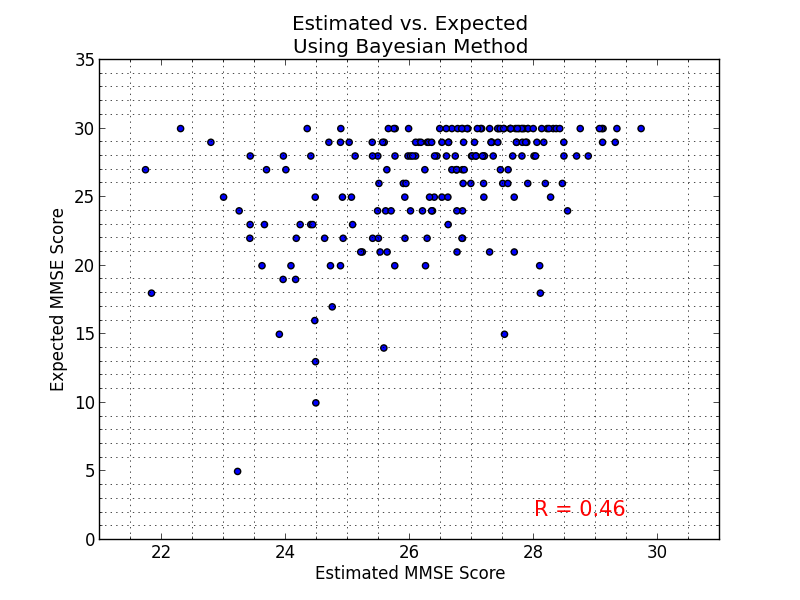
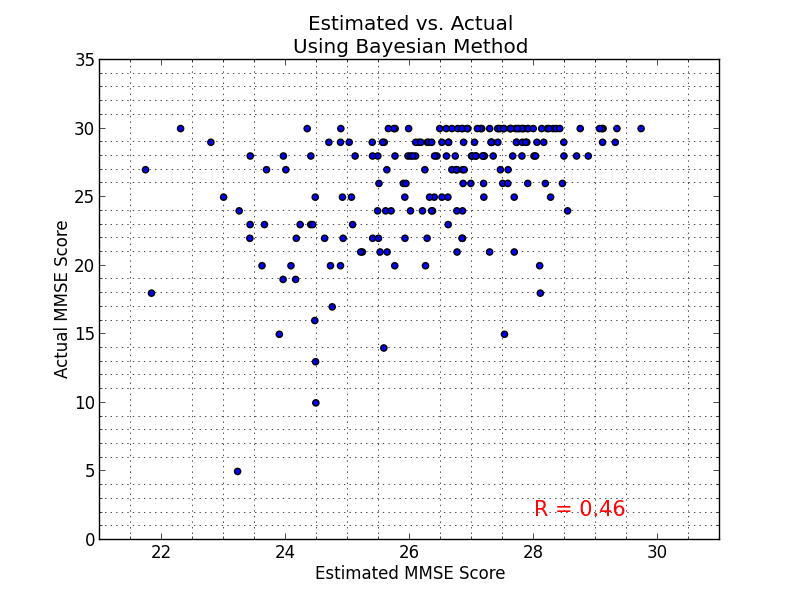
Fixed up graphs a bit

Changed region(s): [[0.0625, 0.33, 0.0938, 0.66], [0.375, 0.03, 0.6562, 0.06]]

diff --git a/analysis.py b/analysis.py
@@ -43,17 +43,17 @@ def analyze(run_data):
 	ax.xaxis.grid()
 	plt.xticks([round(x, 1) for x in bins[0:len(bins)]], [str(0.5*x) for x in range(-num_bins, num_bins)])
 	plt.axvline(x=0.0, color='r')
-	plt.xlabel('Difference Between Estimation and Expected\n(Bin Size RMSE)')
+	plt.xlabel('Difference Between Estimation and Actual\n(Bin Size RMSE)')
 	plt.ylabel('Frequency')
 	plt.title('Difference vs. Frequency\nUsing '+sys.argv[2]+' Method')
 
 	plt.figure(2)
 	plt.xlabel('Estimated MMSE Score')
-	plt.ylabel('Expected MMSE Score')
+	plt.ylabel('Actual MMSE Score')
 	plt.minorticks_on()
 	plt.grid(b=True, which='minor')
 	plt.scatter(est_vec, exp_vec)
-	plt.title('Estimated vs. Expected\nUsing '+sys.argv[2]+' Method')
+	plt.title('Estimated vs. Actual\nUsing '+sys.argv[2]+' Method')
 	plt.text(0.7, 0.05, 'R = '+str(round(pearsonr(est_vec, exp_vec)[0], 5)), transform=plt.axes().transAxes, fontsize=15, color='red')
 	plt.show()
 
